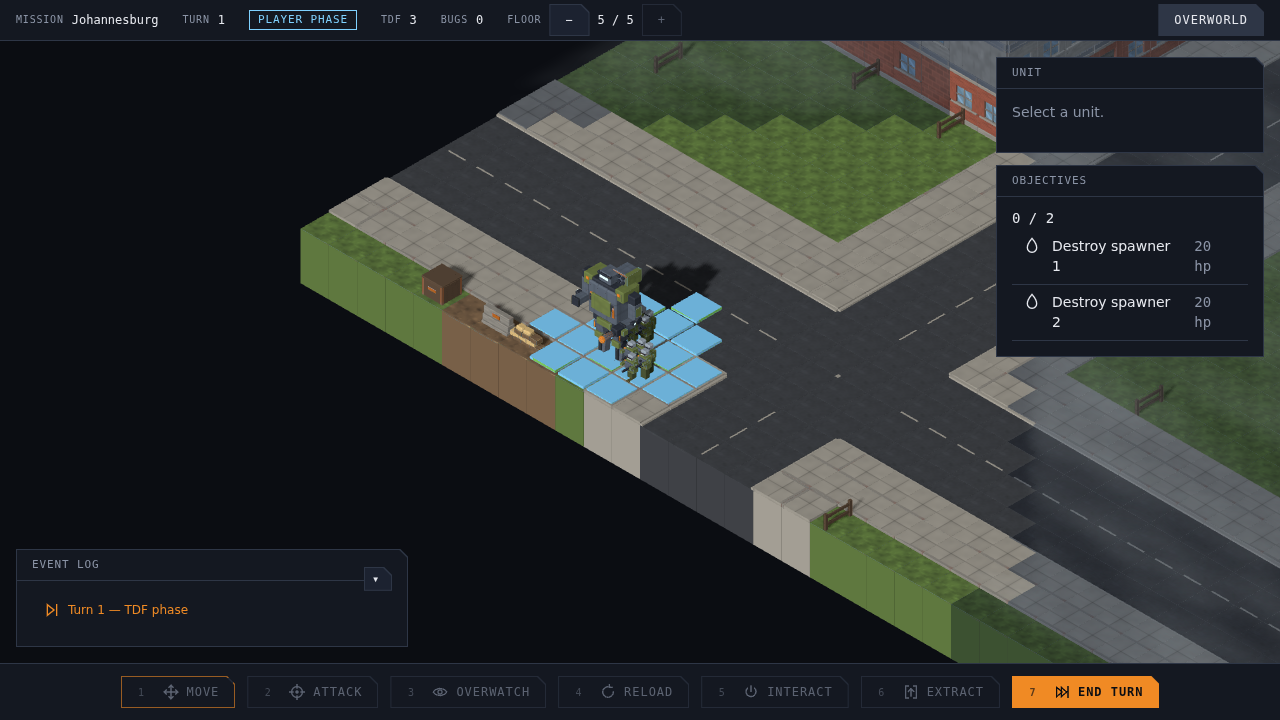
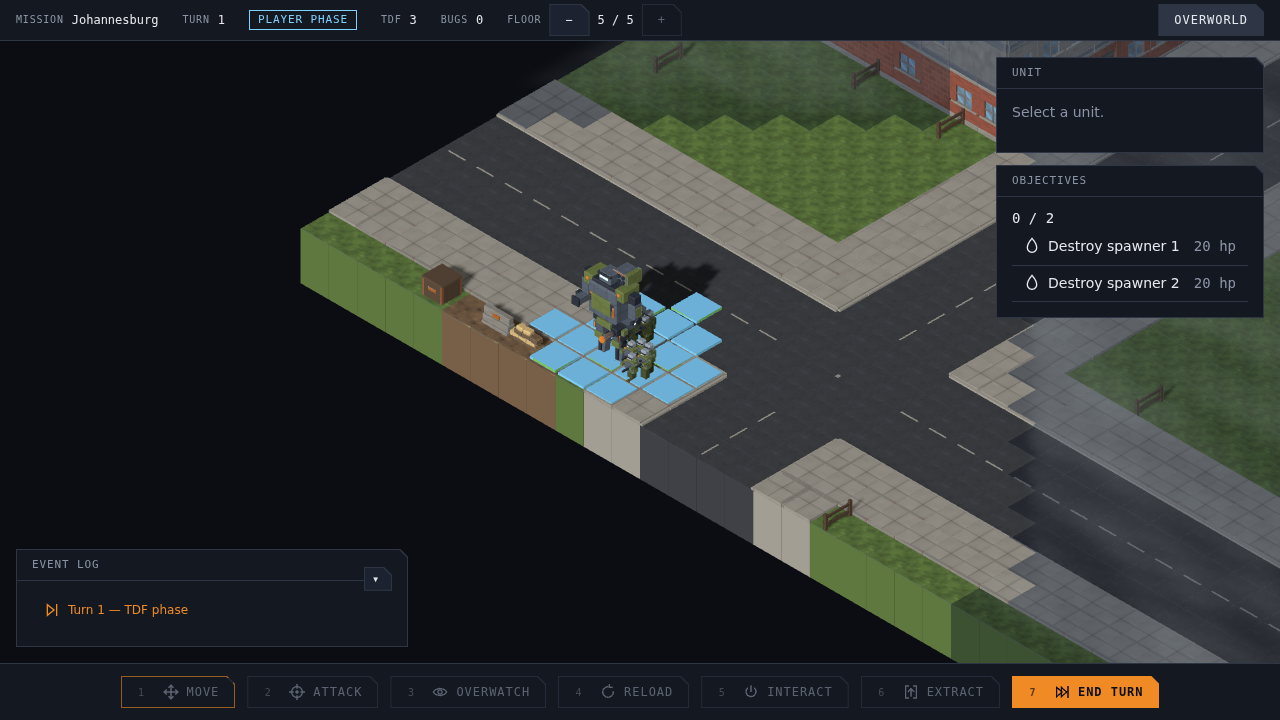
fix(ui): make the objective row fit the rail it lives in (#991)
Every objective cost two lines of a rail that is already short. Measured
at 1280x720: the rail is 268 px, the row 236 px, and after 24 px of
padding, a 16 px glyph and two 12 px gaps the label and the hp chip share
172 px. They need 132 px and 40 px — 172 px exactly — so the flex row
shrank both by a hair and both wrapped. "Destroy spawner / 1" over two
lines, "20 / hp" over two.

Three scoped rules, none touching the `.tut-list > li` every other list
in the game uses: a tighter gap here, the label taking the width the chip
is not using rather than being shrunk in proportion with it, and the chip
never wrapping.

Row height 56 px to 37 px, one line each, identical at 960 wide because
the rail is `min(300px, 36vw)` less its margins and so fixed at 268 px
across that range. The rail was not widened and no vocabulary was
changed, both of which the issue ruled out.

The frames carry the control the brief asked for: the UNIT panel above
the objectives is pixel-identical before and after at both viewports
(ImageMagick AE 0), so the change is confined to the row it is about.

`hud-side-rail.spec` gains an assertion that no objective row wraps —
on the rendered line count, so it says what it means and does not drift
with the font. Its overflow fixture still overflows and is untouched, but
`hidden` falls from 64 px to 24 px, which is recorded in its comment
along with the correction that #949's shortening bought nothing.
[…]

Changed region(s): [[0.7812, 0.3361, 1.0, 0.5194]]

diff --git a/e2e/hud-side-rail.spec.ts b/e2e/hud-side-rail.spec.ts
@@ -81,22 +81,52 @@ test("the side rail stays clear of the action bar, and says when it has more to 
   // fits, it asserts nothing at all, so deleting `watchSideOverflow`
   // outright would leave this spec green.
   //
-  // That shortening has now happened — #949 replaced "Destroy spawner
-  // spawner-1" with "Destroy spawner 1" — and it bought **nothing**
-  // here, so this fixture is untouched. Measured at this viewport:
-  // `hidden` is 64 px before and after, because the rail is a fixed
-  // 268 px and the label wraps to two lines either way (195 px of text
-  // before, 132 px after, into a 130 px slot). The 40 px in the old note
-  // was an estimate that assumed the shorter label would unwrap; it does
-  // not. If a future change does make the rail fit, widen the fixture
-  // (more objectives, a shorter viewport) rather than weakening the
-  // assertion below.
+  // That shortening has now happened, in two steps, and the measurements
+  // are worth keeping because both were predicted wrongly once.
+  //
+  // #949 replaced "Destroy spawner spawner-1" with "Destroy spawner 1"
+  // and bought **nothing** here: `hidden` was 64 px before and after,
+  // because the label wrapped to two lines either way (195 px of text
+  // before, 132 px after, into a 130 px slot). The 40 px in the original
+  // note was an estimate that assumed the shorter label would unwrap.
+  //
+  // #991 then made the row actually fit — one line instead of two, 56 px
+  // to 37 px — and `hidden` is now **24 px**. The fixture still
+  // overflows, so it is left alone, but the margin is thin: one more row
+  // of saved height and this spec asserts nothing. If that happens,
+  // widen the fixture (more objectives, a shorter viewport) rather than
+  // weakening the assertion below.
   const hidden = await rail.evaluate((el) => el.scrollHeight - el.clientHeight);
   expect(
     hidden,
     "the fixture must overflow or the cue below is untested",
   ).toBeGreaterThan(1);
   await expect(rail).toHaveAttribute("data-overflow", "true");
+
+  // The row fits the rail (#991). Two lines per objective was the
+  // defect: the label and the hp chip each shrank by a hair and both
+  // wrapped, so every objective cost two rows of a rail that is already
+  // short. Asserted on the rendered line count rather than a height in
+  // pixels, so it says what it means and does not drift with the font.
+  const objectiveLines = await page
+    .locator("[data-objective-id]")
+    .evaluateAll((rows) =>
+      rows.map((row) =>
+        [...row.children]
+          .filter((child) => !child.classList.contains("tut-icon"))
+          .map((child) => {
+            const range = document.createRange();
+            range.selectNodeContents(child);
+            return range.getClientRects().length;
+          }),
+      ),
+    );
+  expect(objectiveLines.length).toBeGreaterThan(0);
+  for (const row of objectiveLines) {
+    expect(row, "an objective row wrapped onto a second line").toEqual(
+      row.map(() => 1),
+    );
+  }
 
   // And the cue is honest: scrolled to the end, it clears.
   await rail.evaluate((el) => {

diff --git a/src/ui/style/screens.css b/src/ui/style/screens.css
@@ -746,6 +746,41 @@
   );
 }
 
+/*
+ * The objective row, made to fit the rail it lives in (#991).
+ *
+ * Measured at 1280x720 before this: the rail is 268 px, the row 236 px,
+ * and after 24 px of padding, a 16 px glyph and two 12 px gaps the label
+ * and the hp chip share 172 px. They need 132 px and 40 px — 172 px
+ * exactly — so the flex row shrank both by a hair and *both* wrapped,
+ * costing every objective two lines. #949 removed the duplicated id from
+ * the label and could not fix this: the row does not fit the rail.
+ *
+ * Three changes, none of which touch the shared `.tut-list > li` used by
+ * every other list in the game:
+ *   - a tighter gap here, which buys 8 px;
+ *   - the label takes the width the chip is not using, rather than being
+ *     shrunk in proportion with it;
+ *   - the chip never wraps, because "20 / hp" over two lines is the
+ *     thing that made the row look broken.
+ */
+.tut-hud__objectives .tut-list > li {
+  gap: var(--space-2);
+}
+
+.tut-hud__objectives .tut-list > li > span:not(.tut-icon) {
+  min-width: 0;
+}
+
+.tut-hud__objectives .tut-list > li > span:nth-child(2) {
+  flex: 1 1 auto;
+}
+
+.tut-hud__objectives .tut-list > li > .tut-mono {
+  flex: 0 0 auto;
+  white-space: nowrap;
+}
+
 .tut-hud__bottom {
   grid-area: bottom;
   padding: var(--space-3) var(--space-4);

diff --git a/e2e/objective-label-screenshot.spec.ts b/e2e/objective-label-screenshot.spec.ts
@@ -26,7 +26,8 @@ test("captures the objective tracker and the banner beside it", async ({
     "set CAPTURE=1 to regenerate the objective label screenshots",
   );
   test.setTimeout(180_000);
-  await page.setViewportSize({ width: 1280, height: 720 });
+  const vw = Number(process.env.VW ?? 1280);
+  await page.setViewportSize({ width: vw, height: 720 });
   await launchMission(page, "4242");
   await settleForShot(page);
 
@@ -59,6 +60,10 @@ test("captures the objective tracker and the banner beside it", async ({
   await expect(missionName).not.toBeEmpty();
 
   const rail = page.locator(".tut-hud__side");
-  await rail.screenshot({ path: "docs/design/ui-objective-tracker.png" });
-  await page.screenshot({ path: "docs/design/ui-objective-tracker-hud.png" });
+  await rail.screenshot({
+    path: process.env.RAIL_PNG ?? "docs/design/ui-objective-tracker.png",
+  });
+  await page.screenshot({
+    path: process.env.HUD_PNG ?? "docs/design/ui-objective-tracker-hud.png",
+  });
 });
